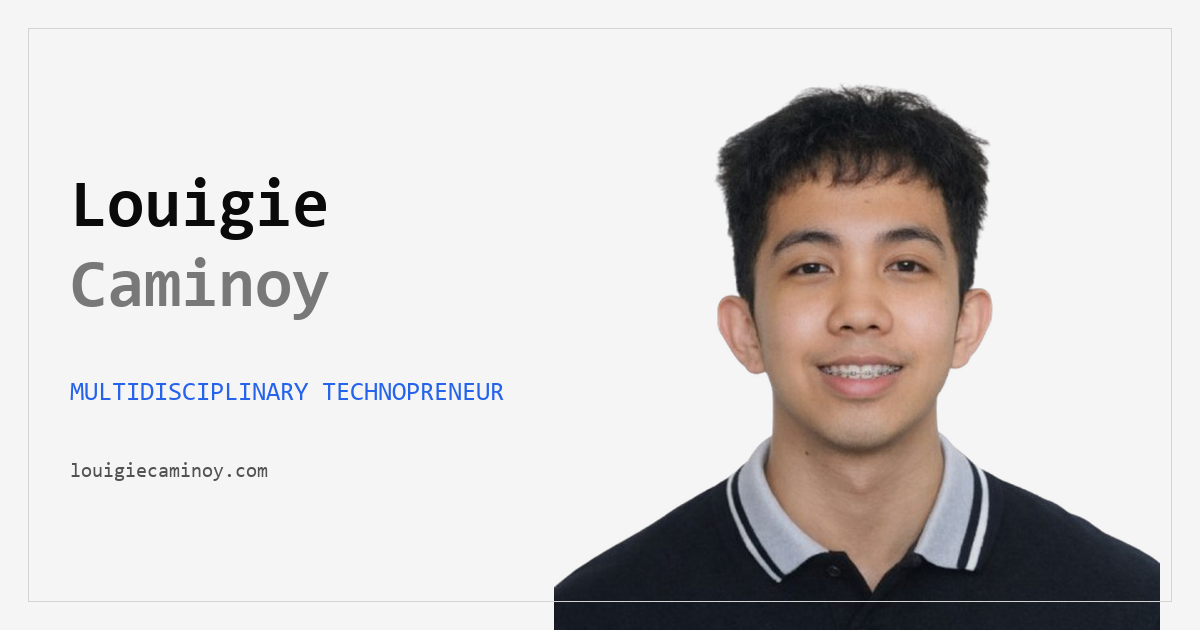
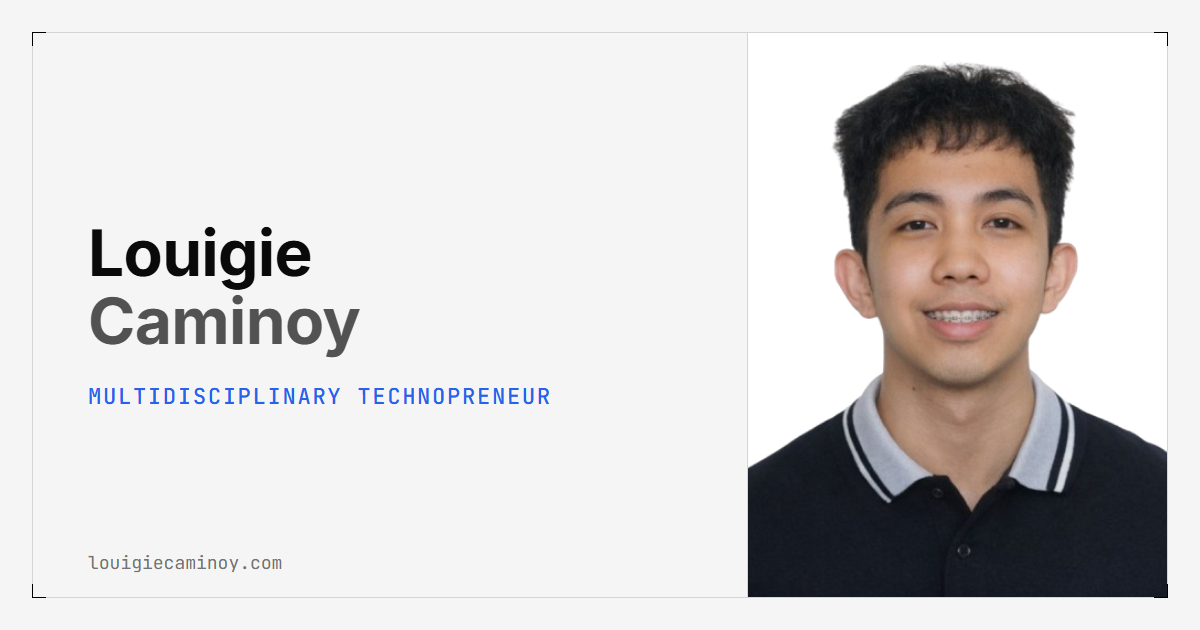
fix: update positioning, hero name render, and OG image

diff --git a/src/lib/components/Hero.svelte b/src/lib/components/Hero.svelte
@@ -76,15 +76,9 @@
 	<!-- Bottom anchor row: centered on mobile/tablet; left-aligned on lg+ -->
 	<div class="relative z-10 flex flex-col items-center px-4 pb-6 sm:pb-10 lg:items-start lg:px-16 lg:pb-14 xl:px-24">
 		<p class="mb-4 text-center font-mono text-xs font-light tracking-[0.2em] text-(--color-text-secondary) sm:mb-6 sm:text-sm sm:tracking-[0.3em] md:text-lg lg:text-left lg:text-2xl">
-			<span class="font-medium text-(--color-text-primary)">CTO</span>
-			<span class="hidden sm:inline"> | </span>
-			<span class="sm:hidden"> - </span>
-			<span class="font-medium text-(--color-text-primary) md:hidden">BLOCKCHAIN DEV</span>
-			<span class="hidden font-medium text-(--color-text-primary) md:inline">BLOCKCHAIN DEVELOPER</span>
-			<span class="hidden sm:inline"> | </span>
-			<span class="sm:hidden"> - </span>
-			<span class="font-medium text-(--color-text-primary) md:hidden">PM</span>
-			<span class="hidden font-medium text-(--color-text-primary) md:inline">PROJECT MANAGER</span>
+			<span class="font-medium text-(--color-text-primary)">DEVELOPER</span>
+			<span> | </span>
+			<span class="font-medium text-(--color-text-primary)">PRODUCT BUILDER</span>
 		</p>
 
 		<div class="mt-2 flex items-center justify-center gap-2 sm:gap-3 lg:justify-start">

diff --git a/src/app.html b/src/app.html
@@ -4,7 +4,7 @@
 		<meta charset="utf-8" />
 		<meta name="viewport" content="width=device-width, initial-scale=1" />
 		<meta name="author" content="Louigie Caminoy" />
-		<meta name="keywords" content="Louigie Caminoy, CTO, Blockchain Developer, Project Manager, Full Stack Developer, Software Engineer, University of Makati, Web Developer, Systems Architecture" />
+		<meta name="keywords" content="Louigie Caminoy, Technopreneur, CTO, Full Stack Developer, Software Engineer, Project Manager, Blockchain Developer, Athlete, Systems Architect, University of Makati" />
 
 		<!-- Site-wide Open Graph / Twitter defaults; per-page title, description,
 		     canonical and url come from the SEO component in each route. -->

diff --git a/src/tests/components.test.ts b/src/tests/components.test.ts
@@ -10,9 +10,8 @@ describe('Hero', () => {
 	it('renders the role subtitle', () => {
 		const navigate = vi.fn();
 		render(Hero, { props: { navigate } });
-		expect(screen.getByText('CTO')).toBeInTheDocument();
-		expect(screen.getByText('BLOCKCHAIN DEVELOPER')).toBeInTheDocument();
-		expect(screen.getByText('PROJECT MANAGER')).toBeInTheDocument();
+		expect(screen.getByText('DEVELOPER')).toBeInTheDocument();
+		expect(screen.getByText('PRODUCT BUILDER')).toBeInTheDocument();
 	});
 
 	it('renders all CTA buttons', () => {

diff --git a/src/routes/+page.svelte b/src/routes/+page.svelte
@@ -13,7 +13,7 @@
 
 <SEO
 	title="Louigie Caminoy - Multidisciplinary Technopreneur"
-	description="CTO, blockchain developer and project manager building decentralized systems and scalable infrastructure."
+	description="Developer and product builder focused on systems, architecture, and execution."
 />
 
 <!--

diff --git a/src/lib/components/scroll/HeroSection.svelte b/src/lib/components/scroll/HeroSection.svelte
@@ -60,7 +60,7 @@
 				<span class="corner corner-br"></span>
 			</div>
 
-			<div class="relative h-28 w-full min-w-0 flex-1 sm:h-44 md:h-60 lg:h-72">
+			<div class="relative h-28 w-full min-w-0 sm:h-44 md:h-60 lg:h-72 lg:flex-1">
 				<BinaryName />
 			</div>
 		</div>
